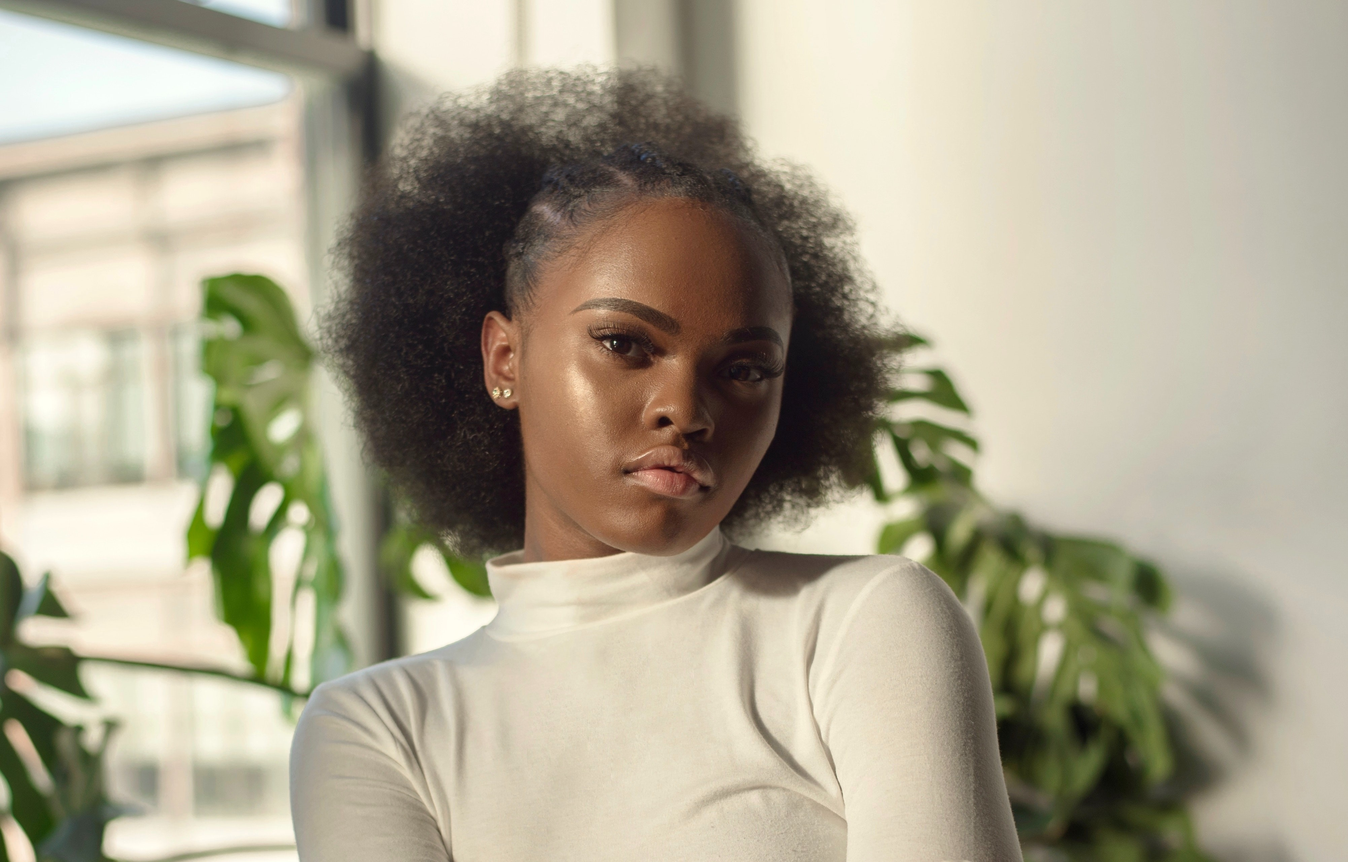
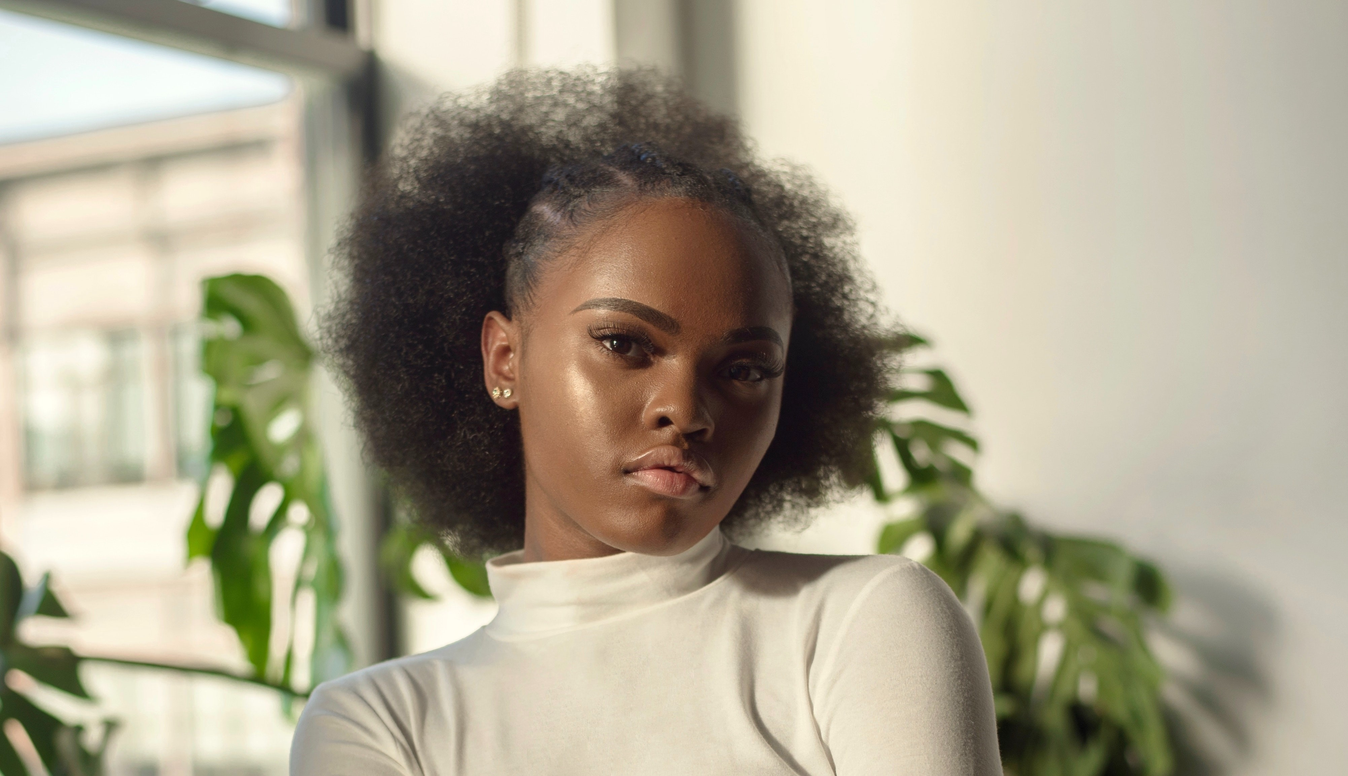
background

diff --git a/index.html b/index.html
@@ -8,7 +8,7 @@
 
             body{
      
-                background-image: url("pexels-asa-dugger-1897590 (2).jpg");
+                background-image: url("pexels-asa-dugger-1897590.jpg");
                 background-repeat: no-repeat;
                 background-size: 100%;
             }
